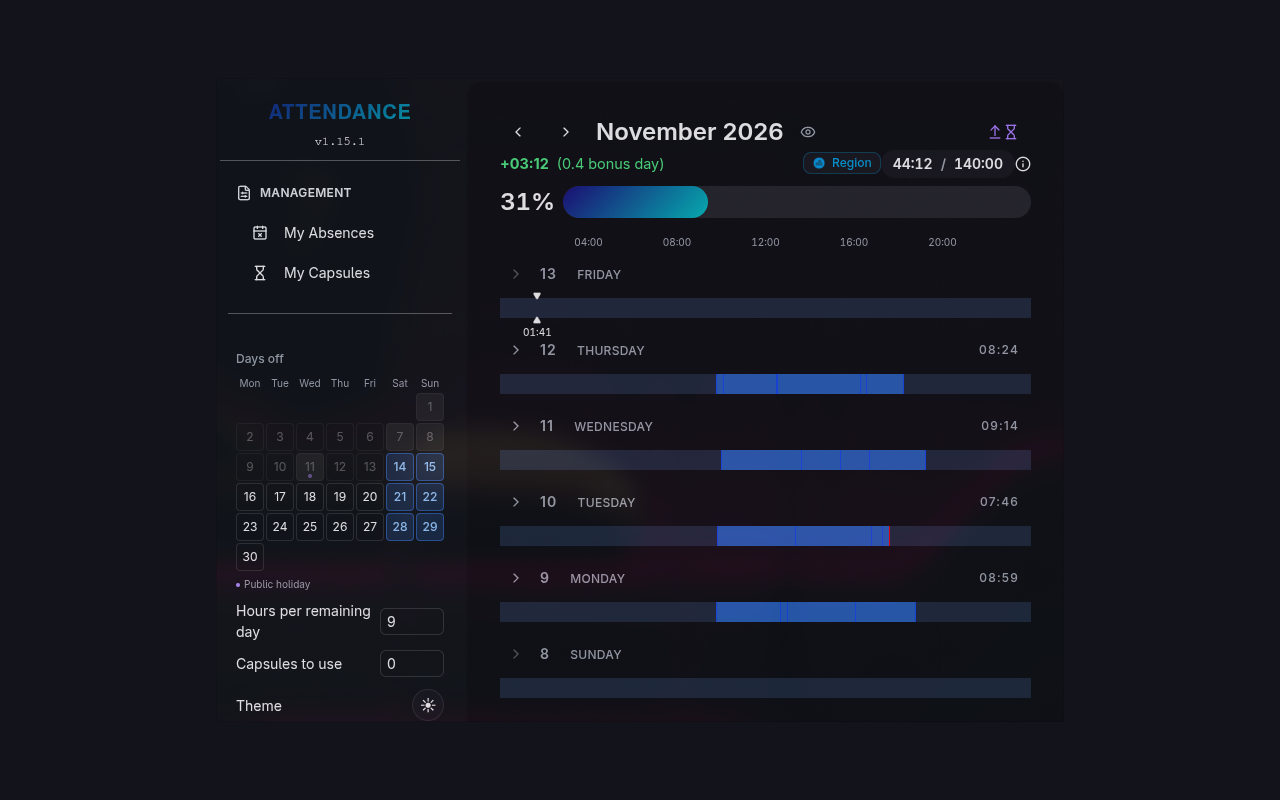
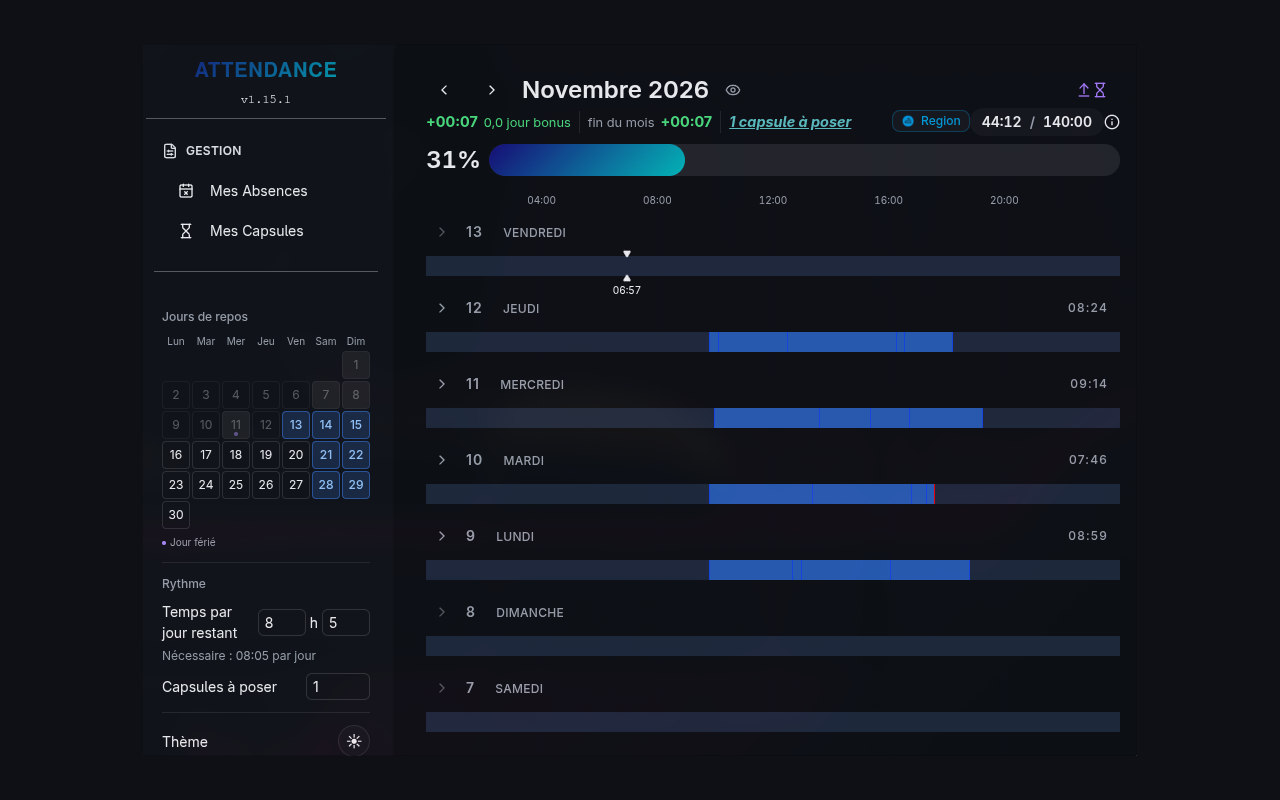
docs: describe the time needed per day and the month end projection

diff --git a/README.md b/README.md
@@ -3,7 +3,7 @@
 [![Latest release](https://img.shields.io/github/v/release/parad0xe/improved-attendance)](https://github.com/parad0xe/improved-attendance/releases/latest)
 [![License](https://img.shields.io/github/license/parad0xe/improved-attendance)](LICENSE)
 
-Improves the [42 Lyon attendance page](https://attendance.42lyon.fr/me): plan your days off, hours and capsules for the month, and follow your progress toward the goal, ahead of or behind the time expected by today
+Improves the [42 Lyon attendance page](https://attendance.42lyon.fr/me): plan your days off, time per day and capsules for the month, see the time needed each day to reach the goal, and follow your progress toward it, today and by the end of the month
 
 ![The attendance page with the gap, the calendar of the days off and the settings, in the dark theme](resources/screenshot.png)
 
@@ -13,6 +13,8 @@ Improves the [42 Lyon attendance page](https://attendance.42lyon.fr/me): plan yo
 
 - Shows your bonus or missing time, in hours and in days, compared with the time to have logged by today to reach the goal of the month with your plan
 - While your planned time of today is in progress, shows the time remaining today
+- Shows your bonus or missing time at the end of the month if you follow your plan
+- In the current month, shows the capsules you still plan to use
 - Shows the time expected by today on the progress bar
 - Updates by itself when your logged time changes, without reloading the page
 
@@ -21,11 +23,12 @@ Improves the [42 Lyon attendance page](https://attendance.42lyon.fr/me): plan yo
 A block in the sidebar holds:
 
 - a calendar to choose your days off, with weekends, public holidays and campus closures selected by default
-- the hours you plan for each remaining day, 7 by default
+- the time you plan for each remaining day, in hours and minutes, 7:00 by default
+- the time needed on each planned day, from today, to reach the goal of the month
 - in the current month, the capsules you plan to use, each one lowering the goal of the month by 7 hours
 - a switch between the light and dark themes
 
-Your days off, planned hours and capsules are saved for each month, and your theme is remembered. A capsule used on the site is removed from the planned ones
+Your days off, planned time and capsules are saved for each month, and your theme is remembered. A capsule used on the site is removed from the planned ones
 
 ### Language
 
@@ -50,7 +53,7 @@ The extension replaces the Tampermonkey userscript
 
 1. Remove the userscript from Tampermonkey, otherwise the gap and the settings show twice
 2. Install the extension
-3. Choose your days off, planned hours, capsules and theme again, as the settings of the userscript are not kept
+3. Choose your days off, planned time, capsules and theme again, as the settings of the userscript are not kept
 
 ## Development
 
